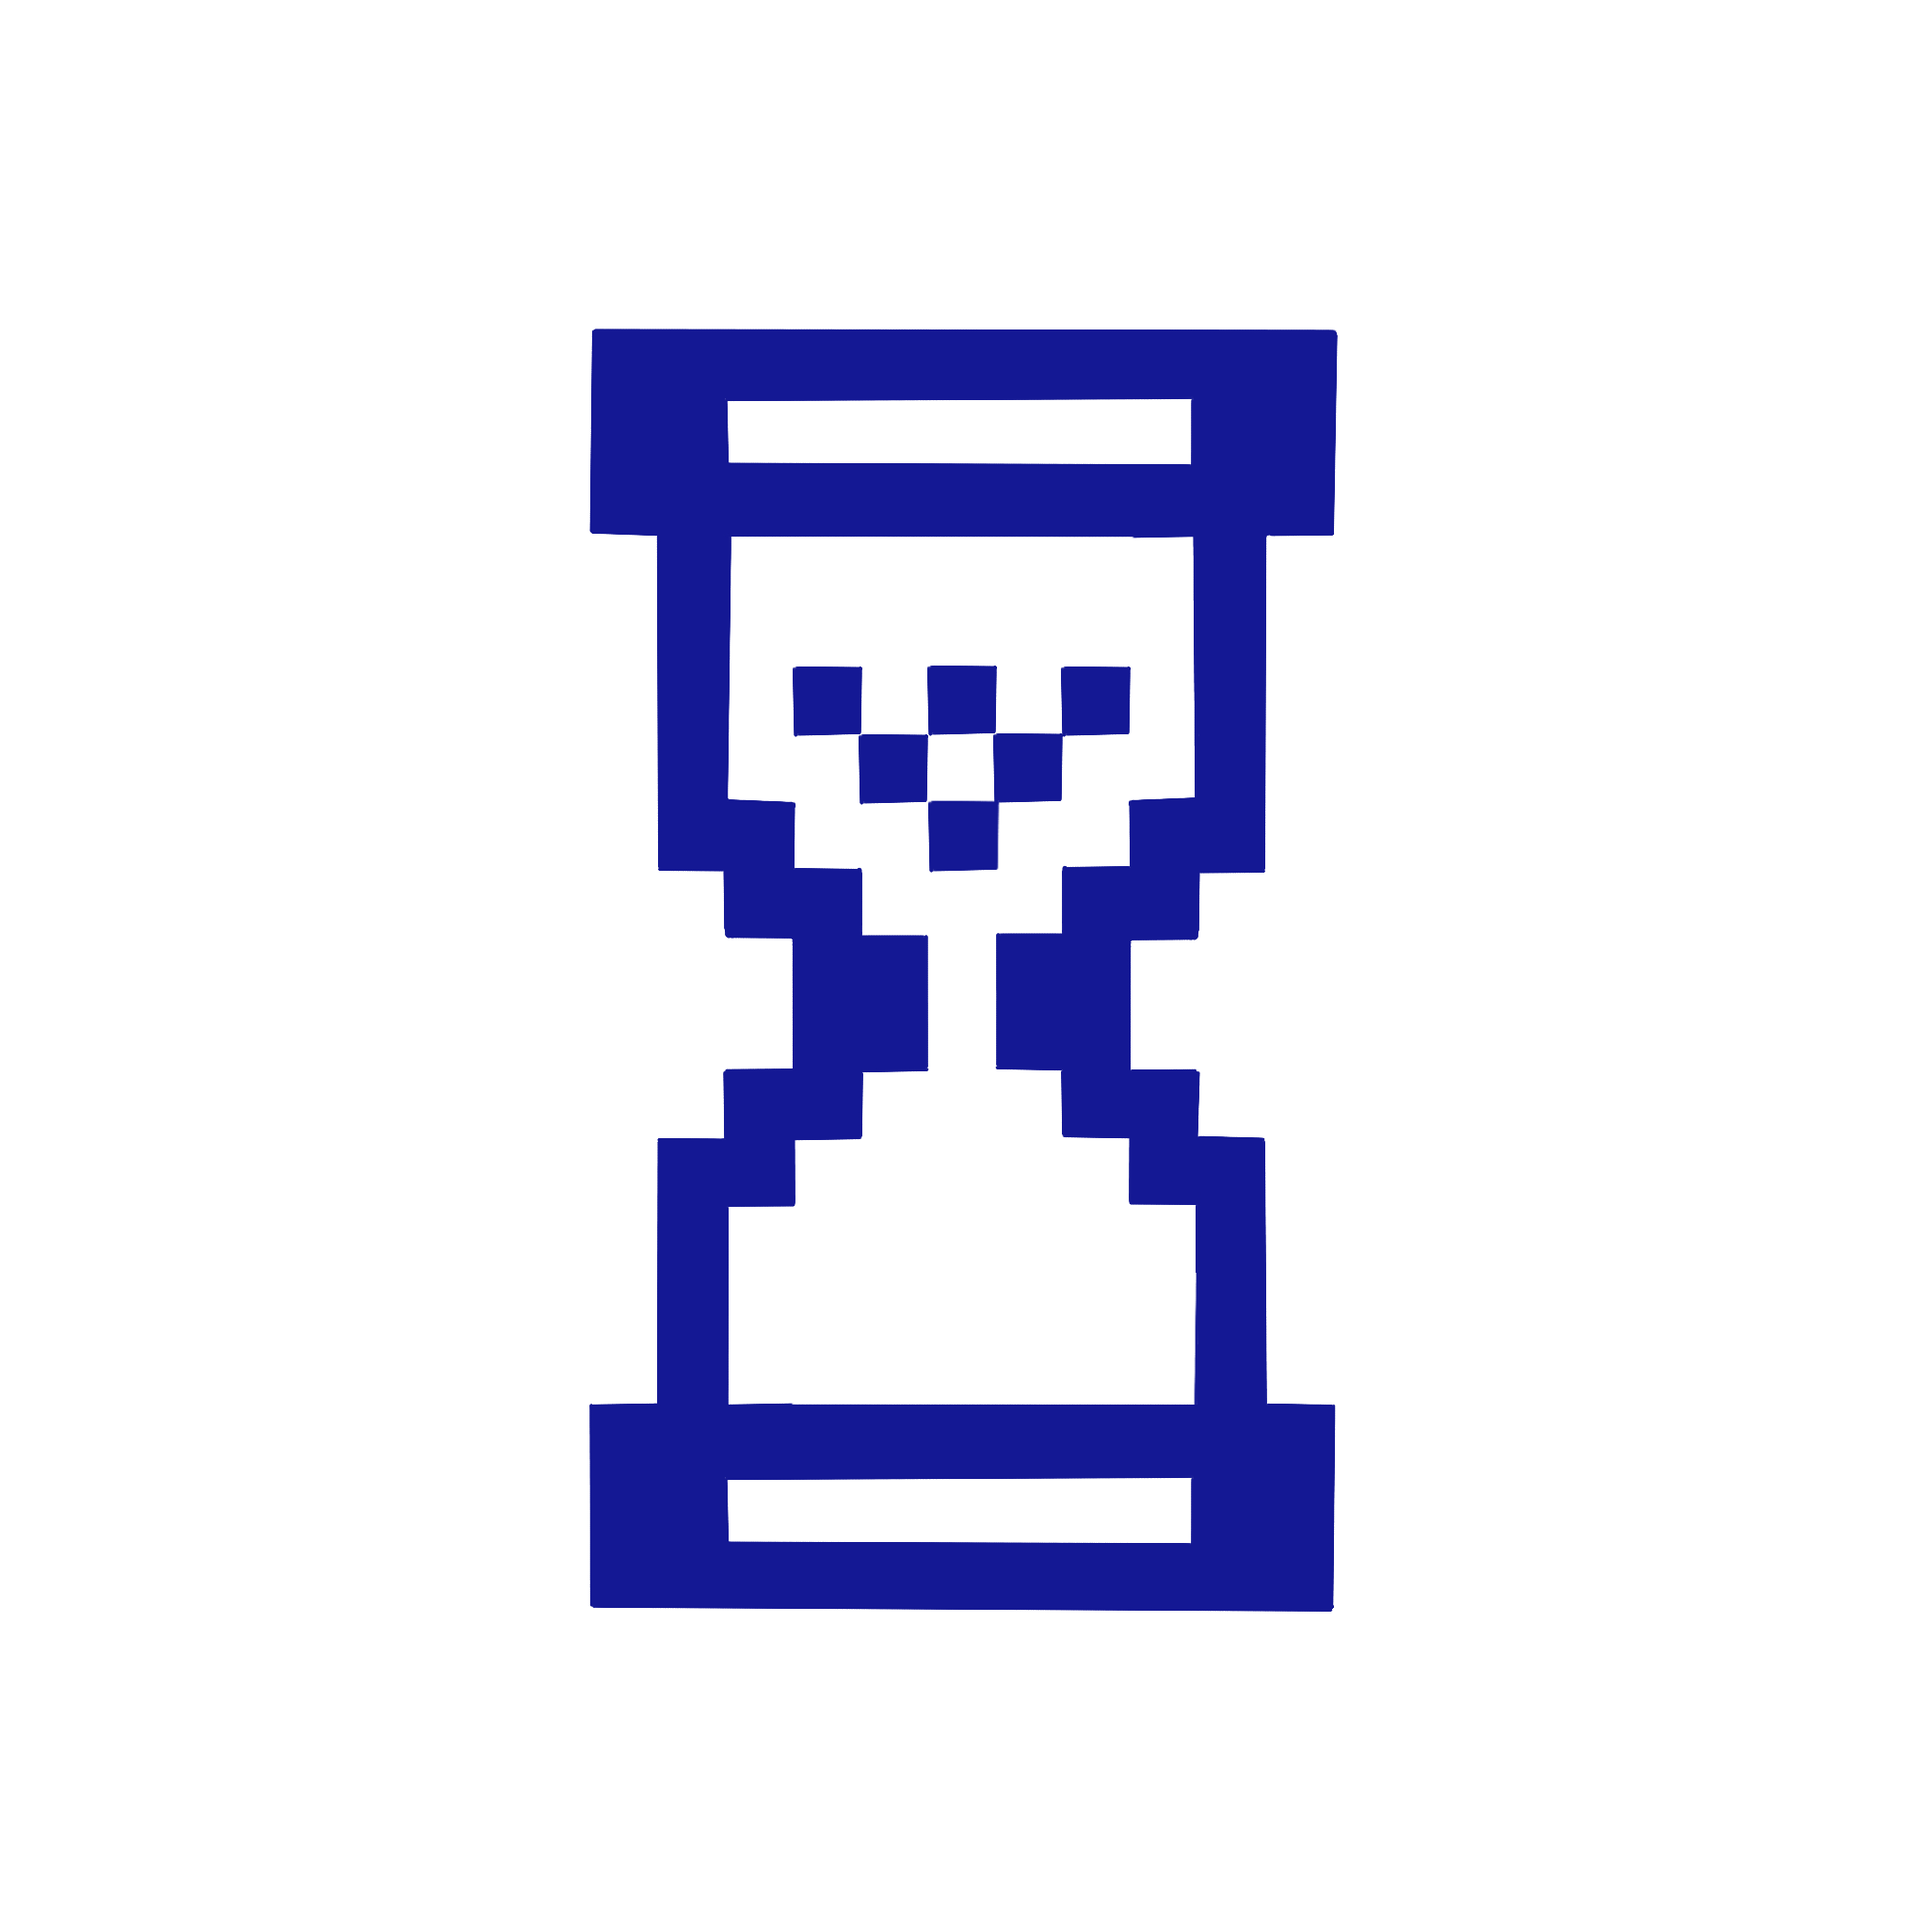
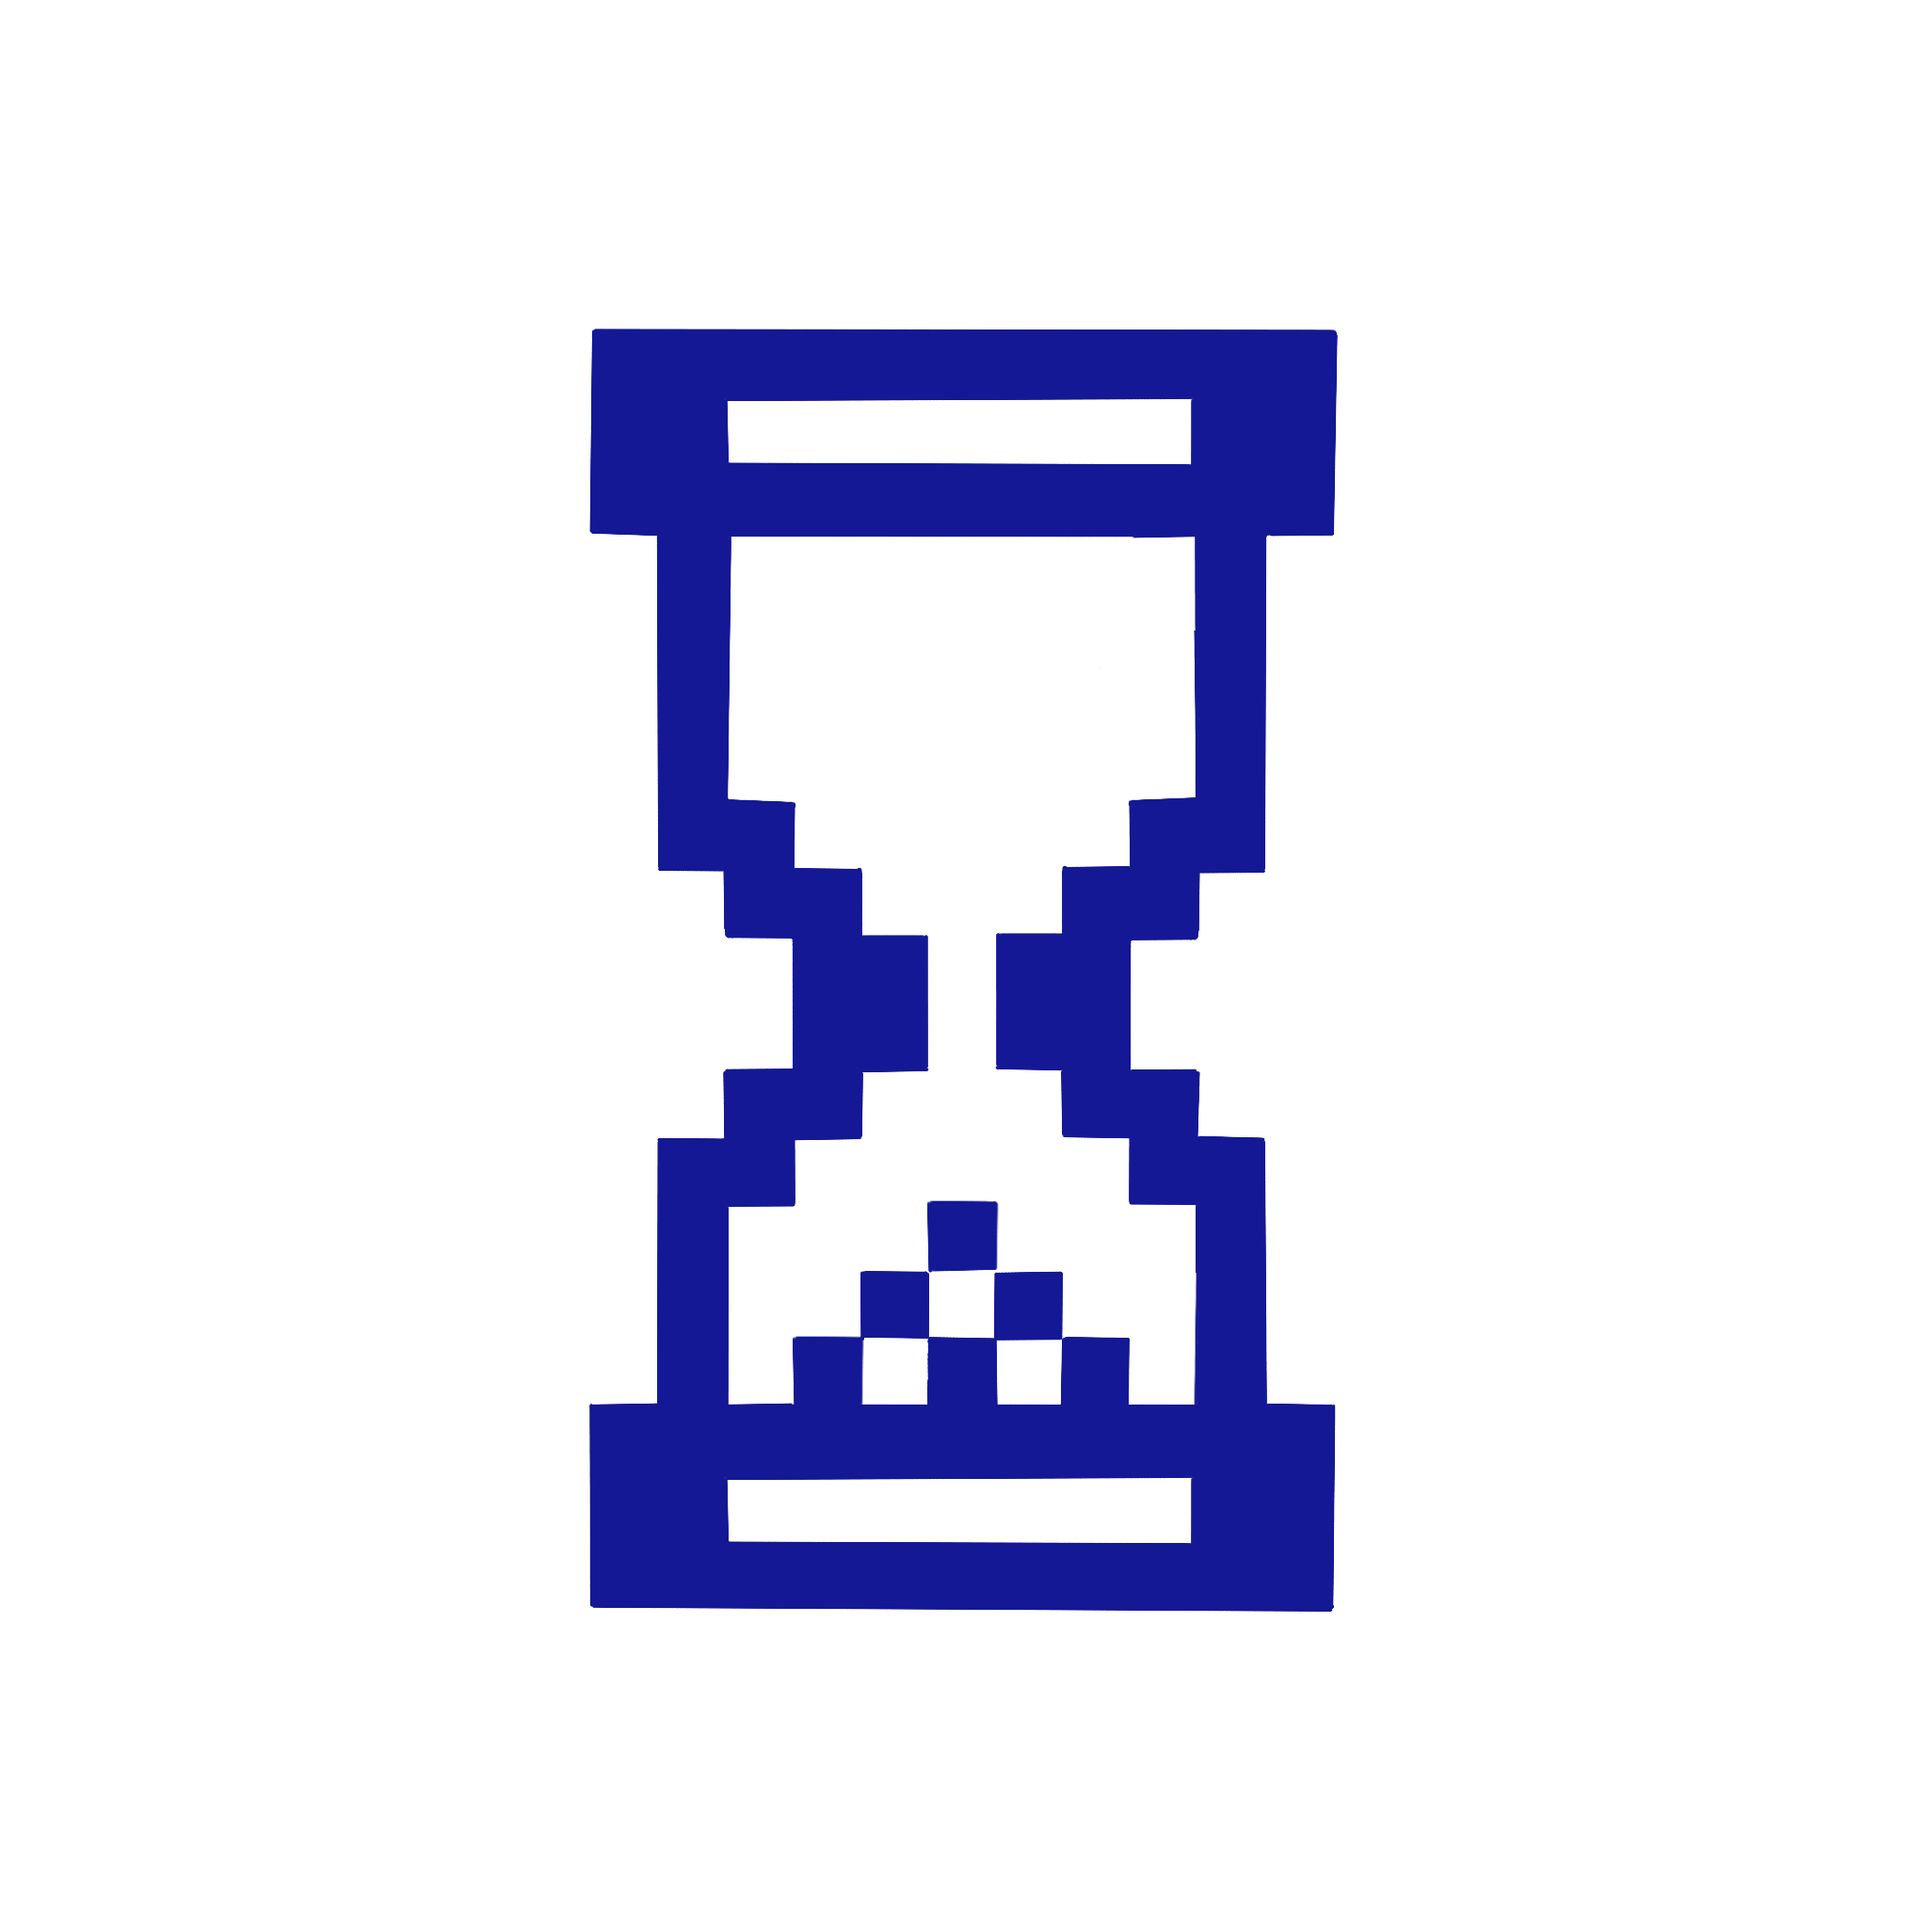
implementing use of hourglass pngs

Changed region(s): [[0.4062, 0.625, 0.5938, 0.75], [0.4062, 0.3438, 0.5938, 0.4688]]

diff --git a/frontend/src/views/timers/GameTimer.vue b/frontend/src/views/timers/GameTimer.vue
@@ -11,6 +11,7 @@ export default {
       min: '' as string,
       sec: '' as string,
       overall: this.seconds as number,
+      turn: false,
     }
   },
   watch: {
@@ -22,6 +23,9 @@ export default {
           }, 1000);
          this.sec = this.convertSeconds(value);
          this.min = this.convertMinutes(value);
+         if(value % 6 == 0){
+          this.turn = !this.turn;
+         }
         } else {
           this.$emit('done', value);
         }
@@ -71,8 +75,14 @@ export default {
         </div>
       </div>
       <div class="hourglass border-2 border-dusty-midnight-300 border-l-0 flex-none w-20">
-        <div class="mt-0.5 animate-spin-slow">
-          <img src="@/assets/images/hourglass2.png.webp" height="115px" width="70px" />
+        <div class="glass">
+          <img src="@/assets/images/timers/hourglass.png" height="120px" width="71px" v-show="overall % 6 == 0 && turn" />
+          <img src="@/assets/images/timers/hourglass_2.png" height="120px" width="71px" v-show="overall % 6 == 1" />
+          <img src="@/assets/images/timers/hourglass_3.png" height="120px" width="71px" v-show="overall % 6 == 2" />
+          <img src="@/assets/images/timers/hourglass_4.png" height="120px" width="71px" v-show="overall % 6 == 3" />
+          <img src="@/assets/images/timers/hourglass_5.png" height="120px" width="71px" v-show="overall % 6 == 4" />
+          <img src="@/assets/images/timers/hourglass_6.png" height="120px" width="71px" v-show="overall % 6 == 5" />
+          <img src="@/assets/images/timers/hourglass.png" class="rotate-180" height="120px" width="71px" v-show="overall % 6 == 0 && !turn" />
         </div>
       </div>
     </div>
@@ -81,18 +91,7 @@ export default {
 
 <style>
 @import 'tailwindcss';
-
-@theme {
-  --animate-spin-slow: spin-slow 2s infinite;
-
-  @keyframes spin-slow {
-    50% {
-      transform: rotate(90deg);
-    }
-
-    100% {
-      transform: rotate(180deg);
-    }
-  }
+.glass {
+  @apply mt-1 mr-1 rotate-180;
 }
 </style>
